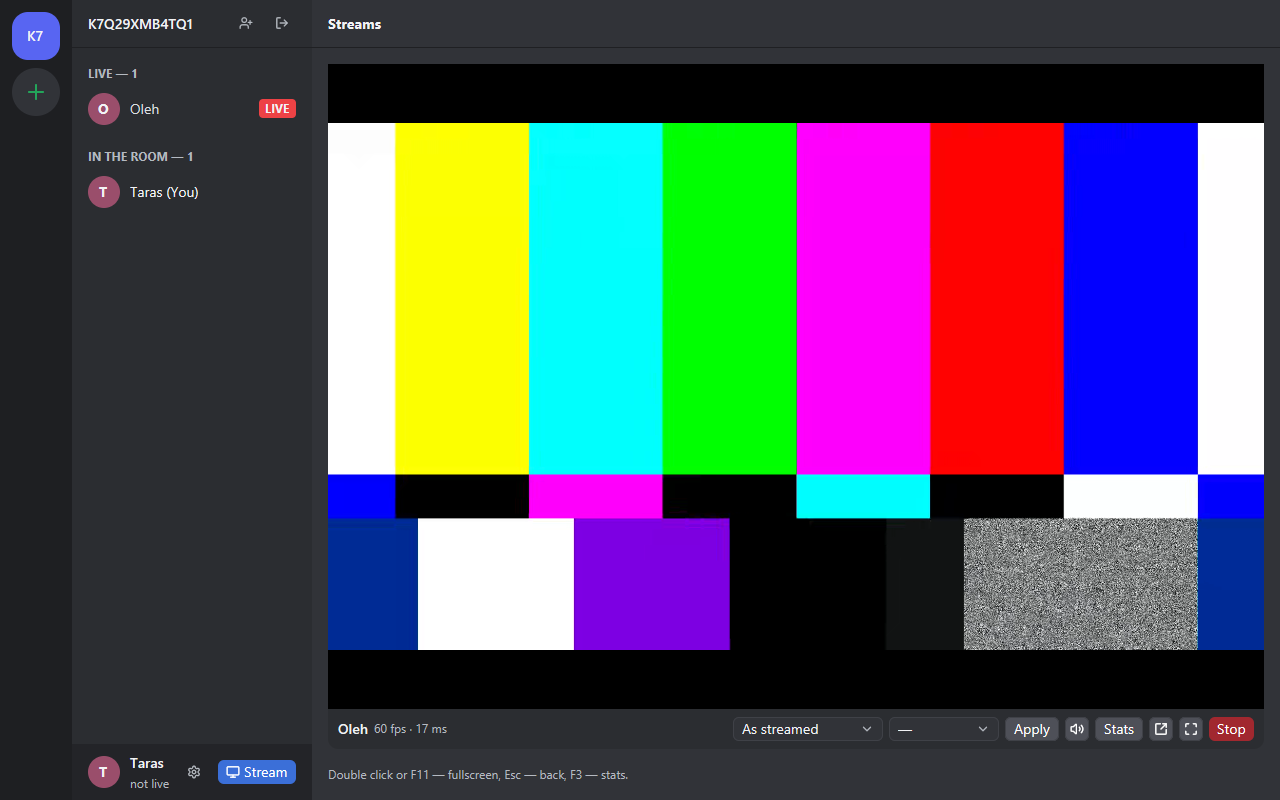
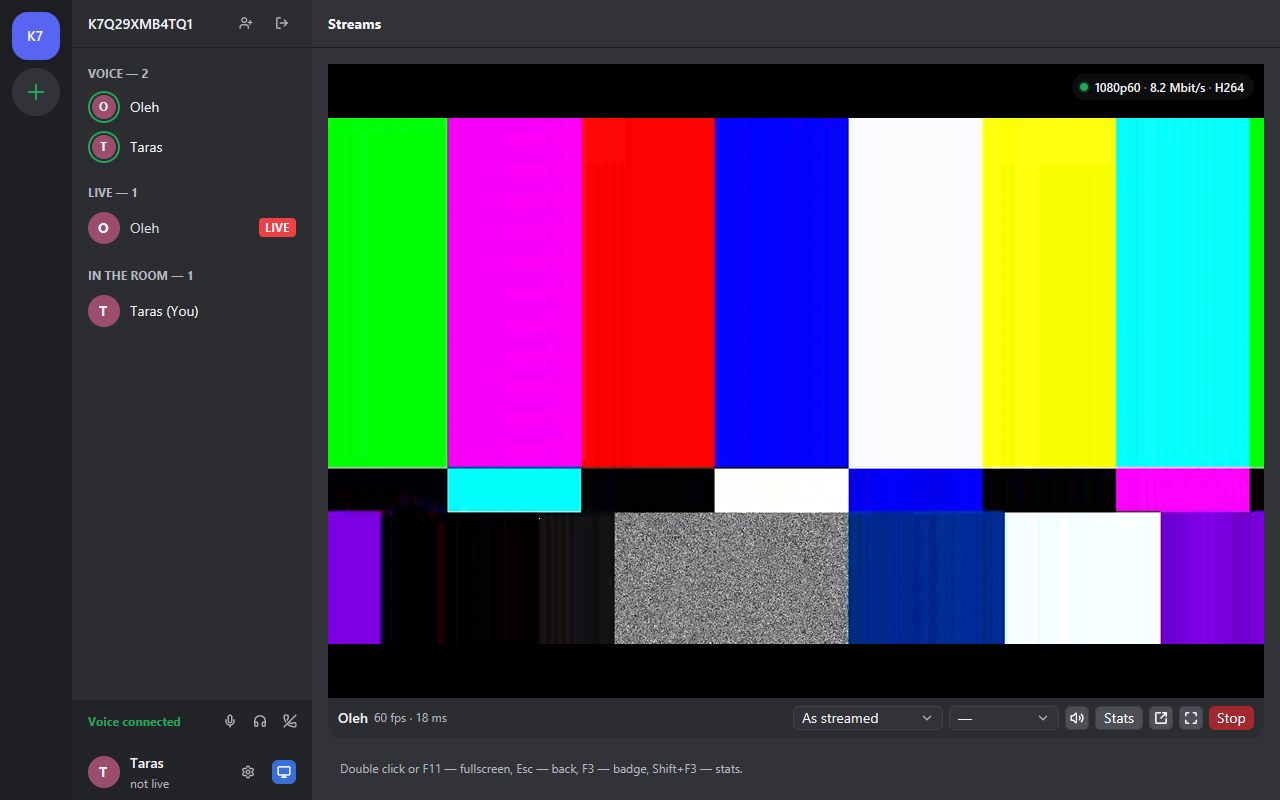
Version 0.2.8: voice chat, temporary rooms; README with voice, background rooms, temporary rooms and a new picture

diff --git a/README.uk.md b/README.uk.md
@@ -23,8 +23,8 @@
 
 Backseat — застосунок для Windows, щоб дивитися, як грають одне одного. Він схожий на
 маленький сервер Discord: кімнати зліва, люди у відкритій кімнаті, а їхні стріми
-посередині. Будь-хто в кімнаті може вийти в ефір, і будь-хто може дивитися, навіть кілька
-стрімів одночасно.
+посередині. Будь-хто в кімнаті може вийти в ефір, будь-хто може дивитися, навіть кілька
+стрімів одночасно, і всі можуть говорити в голосовому чаті кімнати.
 
 Відео йде **напряму** з комп'ютера стрімера до кожного глядача. Ніхто посередині його не
 зберігає й не перекодовує, тому затримка мала (десятки мілісекунд на хорошому зв'язку), а
@@ -34,6 +34,12 @@ Backseat — застосунок для Windows, щоб дивитися, як 
 
 - **Кімнати за запрошенням.** Створи кімнату й надішли посилання чи код. Увійдуть лише ті,
   хто має запрошення. Твої кімнати лишаються в списку зліва.
+- **Голосовий чат** у кожній кімнаті: прибирання луни й шуму (можна з колонками, без
+  гарнітури), голос за активністю або за клавішею, гучність кожної людини, мікрофон і
+  динаміки в налаштуваннях. Голос іде напряму між вами, як і відео.
+- **Кімнати працюють у фоні.** Перейди в іншу кімнату, поки дивишся, стрімиш чи говориш:
+  твій стрім, відео й голос тривають і чекають, коли ти повернешся. Така кімната має
+  зелену крапку зліва.
 - **Чітко й плавно.** 720p, 1080p чи 1440p, 30 або 60 кадрів, від 2 до 50 Мбіт/с,
   кодування на відеокарті (NVIDIA, AMD чи Intel) в AV1, H.265 або H.264.
 - **Кожен глядач обирає сам.** Глядач може попросити меншу якість, ніж ти стрімиш (для
@@ -43,7 +49,8 @@ Backseat — застосунок для Windows, щоб дивитися, як 
 - **Зміна стріму на льоту:** інше вікно, роздільність, кадри чи бітрейт, і нікому не
   треба перепідключатися.
 - **Зручно дивитися:** відео у вікні застосунку або в окремому вікні, повний екран,
-  гучність і вимкнення звуку просто на відео, статистика на F3.
+  гучність і вимкнення звуку просто на відео, бейдж якості (F3) і докладна статистика
+  (Shift+F3).
 - **Легкий:** нативне вікно, яке малює відеокарта, один процес і жодного браузерного
   рушія всередині; нічого додатково встановлювати не треба.
 - **Не заважає:** закрите вікно лишає Backseat у треї. Оновлюється сам.
@@ -124,8 +131,12 @@ Backseat — застосунок для Windows, щоб дивитися, як 
   кожним ефіром; *Налаштування → Перегляд* — найбільша якість, яку ти хочеш отримувати
   (зручно на повільному інтернеті: стрім на 50 Мбіт/с одразу приходить у межах твого
   ліміту).
-- **Клавіші на відео:** подвійний клік або F11 — повний екран, Esc — вийти з нього, F3 —
-  статистика, коліщатко миші — гучність.
+- **Клавіші:** подвійний клік або F11 — повний екран, Esc — вийти з нього, F3 — бейдж
+  якості, Shift+F3 — статистика, коліщатко миші на відео — гучність. Працюють у всьому
+  вікні.
+- **Голос:** у *Налаштування → Голос* — мікрофон, динаміки, голос за активністю чи
+  клавіша push-to-talk і поріг, вище якого тебе чути (з живим індикатором). Клікни людину
+  в голосі, щоб змінити її гучність.
 - **Ліміт вивантаження:** у вікні виходу в ефір вкажи швидкість свого інтернету на
   вивантаження, і Backseat попередить, коли ще один глядач не вміститься.
 - **Логи** для звітів про помилки: *Налаштування → Загальні → Відкрити теку з логами*
@@ -148,6 +159,20 @@ Backseat — застосунок для Windows, щоб дивитися, як 
    - *Health check path*: `/live`
 3. Сервіс задає `PORT`; тоді сервер слухає `0.0.0.0:$PORT`.
 4. У Backseat адреса сервера буде `wss://АДРЕСА-ТВОГО-СЕРВІСУ/ws`.
+
+### Тимчасові кімнати
+
+Сервер може видавати й кімнати, що закінчуються самі: коли час минає, нових не пускає, а
+всіх, хто всередині, виводить. Задай на сервері змінну середовища `STREAMER_TEMP_SECRET`
+(секрет щонайменше з 16 символів) і зроби посилання з тим самим секретом:
+
+```sh
+cargo run --release -p server --bin maketemp -- --hours 24 --title "П'ятничні ігри" --base https://АДРЕСА-ТВОГО-СЕРВІСУ
+```
+
+Воно видасть посилання на кшталт `https://АДРЕСА-ТВОГО-СЕРВІСУ/t/XXXX-XXXX-XXXX-XXXX-XXXX`,
+яке відкривається як звичайне запрошення. Сервер нічого не зберігає: час закінчення й
+підпис зашиті в коді.
 
 ### На своєму комп'ютері чи сервері
 

diff --git a/README.md b/README.md
@@ -23,7 +23,8 @@
 
 Backseat is a Windows app for watching each other play. It looks and feels like a small
 Discord server: rooms on the left, the people in the open room, and their streams in the
-middle. Anyone in a room can go live, and anyone can watch, several streams at once.
+middle. Anyone in a room can go live, anyone can watch, several streams at once, and
+everyone can talk in the room's voice chat.
 
 The video goes **directly** from the streamer's computer to each viewer. Nothing in
 between stores or re-encodes it, which keeps the delay low (tens of milliseconds on a
@@ -33,6 +34,13 @@ good connection) and the picture as sharp as your upload allows.
 
 - **Rooms by invite.** Create a room, send the invite link or code. Only people with the
   invite get in. Your rooms stay in the list on the left.
+- **Voice chat** in every room: echo cancelling and noise suppression (speakers work, no
+  headset needed), voice activity or push-to-talk, a volume for each person, your
+  microphone and speakers in the settings. The voice goes directly between you, as the
+  video does.
+- **Rooms keep going in the background.** Switch to another room while you watch, stream
+  or talk: your stream, the video you watch and the voice go on, and are there as they
+  were when you come back. Such a room has a green dot on the left.
 - **Sharp and smooth.** 720p, 1080p or 1440p at 30 or 60 fps, 2 to 50 Mbit/s, encoded on
   your graphics card (NVIDIA, AMD or Intel) in AV1, H.265 or H.264.
 - **Each viewer chooses.** Viewers can ask for less than you stream (for a slow
@@ -41,7 +49,8 @@ good connection) and the picture as sharp as your upload allows.
 - **Change the stream while live:** another window, resolution, frame rate or bitrate, and
   nobody has to reconnect.
 - **Comfortable to watch:** video inside the app or in its own window, fullscreen,
-  volume and mute right on the video, stats with F3.
+  volume and mute right on the video, a quality badge (F3) and detailed stats
+  (Shift+F3).
 - **Light:** a native window drawn on the graphics card, one process and no browser engine
   inside; it needs nothing else installed.
 - **Stays out of the way:** closing the window keeps Backseat in the tray. It updates
@@ -118,8 +127,12 @@ Good to know before you use it:
 - **Default settings:** *Settings → Streaming* sets what the go-live dialog picks each
   time; *Settings → Watching* sets the most you want to receive (handy on slow internet:
   a 50 Mbit/s stream then comes to you at your limit right away).
-- **Keys on the video:** double click or F11 for fullscreen, Esc to leave it, F3 for stats,
-  the mouse wheel for volume.
+- **Keys:** double click or F11 for fullscreen, Esc to leave it, F3 for the quality badge,
+  Shift+F3 for the stats, the mouse wheel on the video for volume. They work anywhere in
+  the window.
+- **Voice:** *Settings → Voice* has the microphone, the speakers, voice activity or a
+  push-to-talk key, and the threshold above which you are heard (with a live meter).
+  Click a person in voice to set their volume.
 - **Upload limit:** in the go-live dialog, enter your upload speed; Backseat warns when
   one more viewer would not fit.
 - **Logs** for bug reports: *Settings → General → Open the log folder*
@@ -142,6 +155,20 @@ Any service that runs a Rust web service from a repository will do:
    - *Health check path*: `/live`
 3. The service sets `PORT`; the server then listens on `0.0.0.0:$PORT`.
 4. In Backseat, the server address is `wss://YOUR-SERVICE-ADDRESS/ws`.
+
+### Temporary rooms
+
+A server can also hand out rooms that end by themselves: when the time is up nobody new
+gets in and everyone inside is taken out. Set the environment variable
+`STREAMER_TEMP_SECRET` on the server to a secret of at least 16 characters, then make a link
+with the same secret:
+
+```sh
+cargo run --release -p server --bin maketemp -- --hours 24 --title "Friday games" --base https://YOUR-SERVICE-ADDRESS
+```
+
+It prints a link like `https://YOUR-SERVICE-ADDRESS/t/XXXX-XXXX-XXXX-XXXX-XXXX` that opens
+like any invite. The server keeps no list: the end time and a signature are in the code.
 
 ### On your own computer or server
 

diff --git a/CHANGELOG.md b/CHANGELOG.md
@@ -2,9 +2,14 @@
 
 Each `## X.Y.Z` section becomes the notes of the GitHub release for tag `vX.Y.Z`.
 
-## Unreleased
+## 0.2.8
 
+- **Voice chat.** Every room has a voice chat: press *Join voice* in the list on the left. Echo cancelling and noise suppression let you talk over speakers, no headset needed. The voice goes directly between you, as the video does.
+- In voice: your microphone and sound off and on (others see it), who is speaking, a volume for each person (click or right click them), and sounds when someone joins, goes live or starts watching (can be turned off).
+- *Settings → Voice*: the microphone and the speakers, voice activity or a push-to-talk key, and the threshold above which you are heard, with a live meter. *Keep streams' sound out of my microphone* is there too, for speakers without headphones (off by default: stream sound then comes about 20 ms later, and it applies to streams opened after turning it on).
+- Voice also keeps a room going in the background, like watching and streaming: switch rooms and the call goes on; the bar at the bottom left says which room it is in. Voice, watching and streaming happen in one room at a time.
 - **Temporary rooms.** A room can come from a link that carries its own end time (`…/t/XXXX-XXXX-XXXX-XXXX-XXXX`, a 20-symbol code). Opening or pasting it joins like any invite, and the room takes its name from the link. When the time is up, nobody new gets in and everyone still inside is taken out with "This temporary room has ended."; the room then leaves the list on the left (also when the app was closed at that moment). Such links are made by the server's owner; the server keeps no list of them.
+- People in voice show the hand cursor and light up under the mouse.
 
 ## 0.2.7
 
